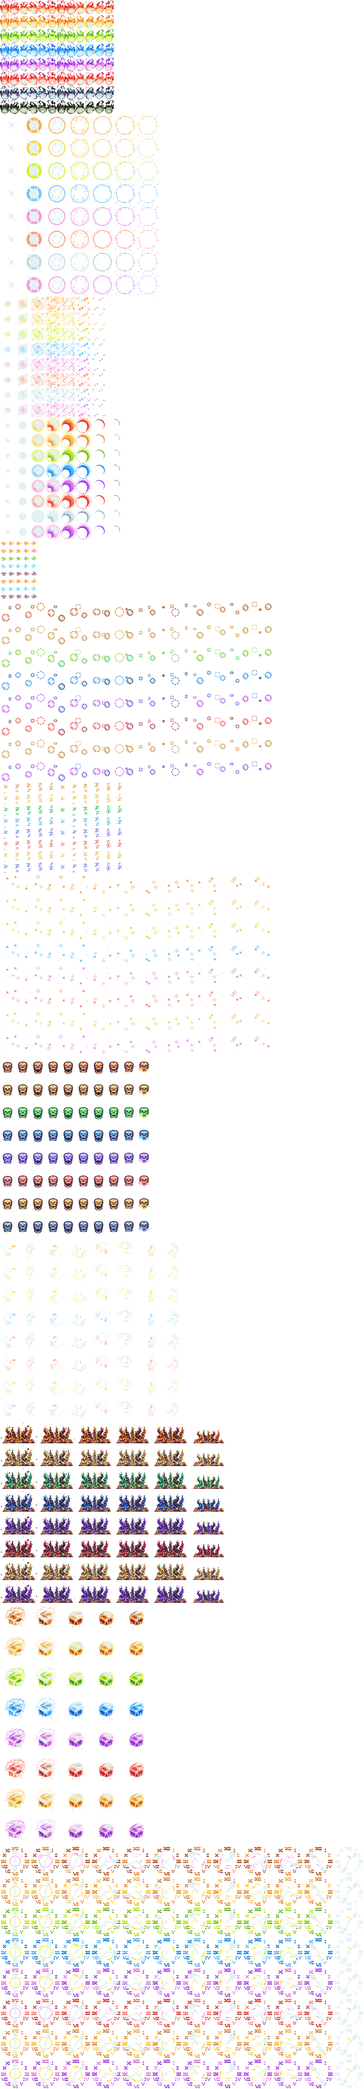
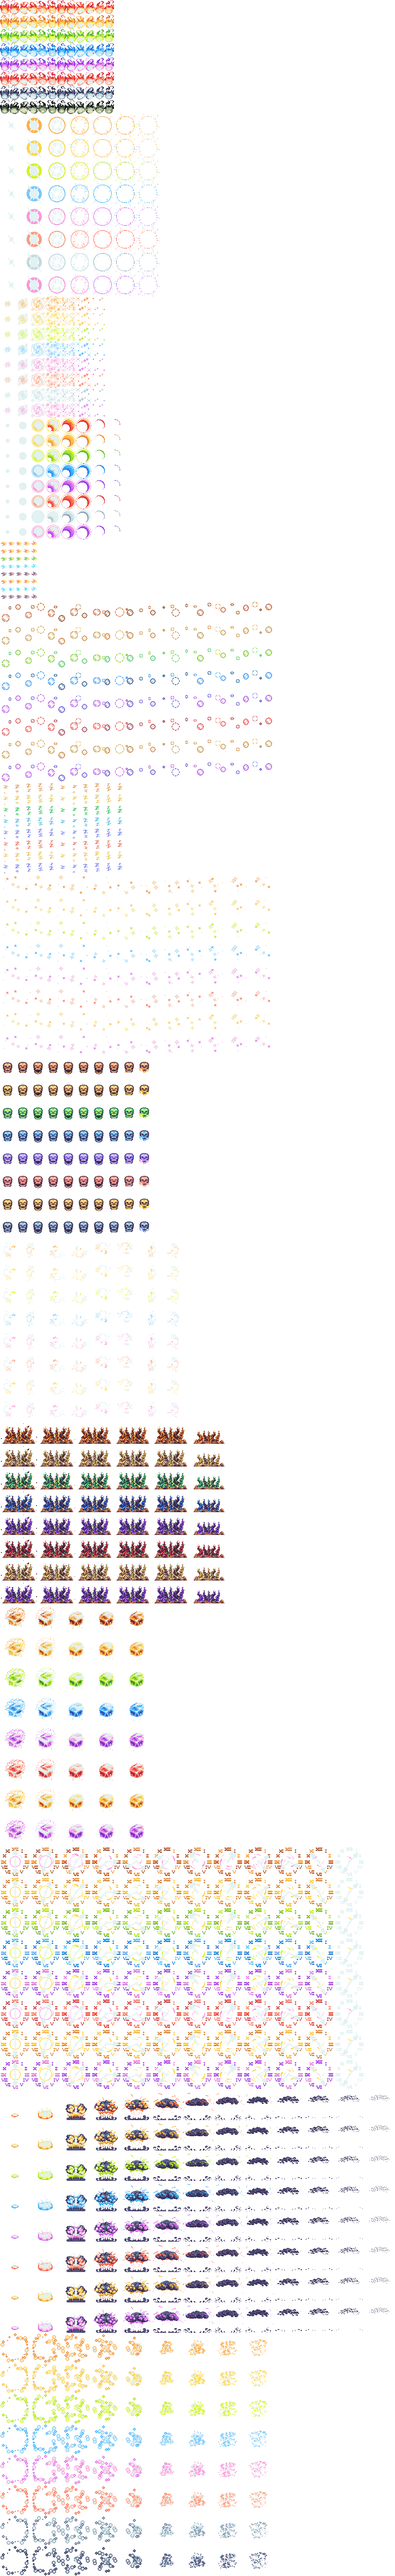
Efectos de área rehechos: zonas con su contenido propio, explosiones, abanicos y pozos con los efectos del paquete
Claude-Session: https://claude.ai/code/session_01Q4uyweMzSQgDDJSMLpwXVR

diff --git a/game.js b/game.js
@@ -3344,7 +3344,7 @@ function explode(x, y, r, dmg, o) {
   sfx('boom', 0.4, 0.85 + Math.random() * 0.3, 0.09);
   const blood = has('d_blood'), vap = has('v_vapors');
   if (blood) r *= 1.3;
-  S.fx.push({ k: 'ring', x, y, r, t: 0, life: 0.28, col: o.col || C.ink });
+  S.fx.push({ k: 'ring', x, y, r, t: 0, life: 0.42, col: o.col || C.ink, boom: true });   // boom: se pinta como explosión, no como un simple aro
   if (!o.soft) { S.shake = Math.max(S.shake, 4); sfx('boom', 0.45); }
   for (const e of S.enemies.slice()) {
     if (!active(e)) continue;
@@ -4802,7 +4802,7 @@ const DECOR = {"1":{"wall":[[229,0,14,22],[244,0,14,26],[259,0,16,21],[276,0,14,
 // Generado por tools/pack_fx.py: efectos de «Super Pixel Effects Gigapack» (Will Tice / unTied Games) y «Effect and Bullet 16x16».
 // Cada efecto ocupa ocho filas, una por color, en este orden.
 const FXCOL = ["orange", "yellow", "green", "blue", "violet", "red", "white", "black"];
-const FXA = {"flame": {"y": 0, "w": 20, "h": 30, "n": 12}, "hit": {"y": 240, "w": 48, "h": 48, "n": 7}, "cast": {"y": 624, "w": 32, "h": 32, "n": 7}, "boom": {"y": 880, "w": 32, "h": 32, "n": 8}, "bolt": {"y": 1136, "w": 16, "h": 16, "n": 5}, "poison": {"y": 1264, "w": 48, "h": 48, "n": 12}, "sleep": {"y": 1648, "w": 24, "h": 24, "n": 11}, "spark": {"y": 1840, "w": 48, "h": 48, "n": 12}, "skull": {"y": 2224, "w": 32, "h": 48, "n": 10}, "aura": {"y": 2608, "w": 48, "h": 48, "n": 8}, "thorns": {"y": 2992, "w": 80, "h": 48, "n": 6}, "ice": {"y": 3376, "w": 64, "h": 64, "n": 5}, "clock": {"y": 3888, "w": 64, "h": 64, "n": 12}};
+const FXA = {"flame": {"y": 0, "w": 20, "h": 30, "n": 12}, "hit": {"y": 240, "w": 48, "h": 48, "n": 7}, "cast": {"y": 624, "w": 32, "h": 32, "n": 7}, "boom": {"y": 880, "w": 32, "h": 32, "n": 8}, "bolt": {"y": 1136, "w": 16, "h": 16, "n": 5}, "poison": {"y": 1264, "w": 48, "h": 48, "n": 12}, "sleep": {"y": 1648, "w": 24, "h": 24, "n": 11}, "spark": {"y": 1840, "w": 48, "h": 48, "n": 12}, "skull": {"y": 2224, "w": 32, "h": 48, "n": 10}, "aura": {"y": 2608, "w": 48, "h": 48, "n": 8}, "thorns": {"y": 2992, "w": 80, "h": 48, "n": 6}, "ice": {"y": 3376, "w": 64, "h": 64, "n": 5}, "clock": {"y": 3888, "w": 64, "h": 64, "n": 12}, "blast": {"y": 4400, "w": 64, "h": 64, "n": 13}, "well": {"y": 4912, "w": 64, "h": 64, "n": 9}};
 // Generado por tools/pack_houses.py con piezas del Pixel Crawler Free Pack (Anokolisa). No editar a mano.
 // [x, y, ancho, alto] de cada casa en assets/houses.png; las 0, 1 y 4 son grandes (128 px), las demás pequeñas (96 px); de la 6 a la 11, las mismas en ruinas
 const HOUSES = [[0, 0, 128, 133], [130, 0, 128, 133], [260, 0, 96, 144], [358, 0, 96, 139], [456, 0, 128, 133], [586, 0, 96, 139], [684, 0, 128, 133], [814, 0, 128, 133], [944, 0, 96, 144], [1042, 0, 96, 139], [1140, 0, 128, 133], [1270, 0, 96, 139]];
@@ -5634,14 +5634,29 @@ function renderWorld() {
     ctx.globalAlpha = 1;
   }
 
-  // Zonas en el suelo
-  for (const z of S.zones) {
-    const a = Math.min(1, z.life);
-    if (z.r) { ctx.fillStyle = z.col; ctx.globalAlpha = 0.2 * a + 0.04 * Math.sin(S.t * 14); ctx.beginPath(); ctx.arc(z.x, z.y, z.r, 0, Math.PI * 2); ctx.fill(); ctx.globalAlpha = 1; continue; }
-    ctx.strokeStyle = z.col; ctx.lineCap = 'round';
-    ctx.globalAlpha = 0.22 * a; ctx.lineWidth = 20; ctx.beginPath(); ctx.moveTo(z.x1, z.y1); ctx.lineTo(z.x2, z.y2); ctx.stroke();
-    ctx.globalAlpha = 0.5 * a; ctx.lineWidth = 5 + Math.sin(S.t * 14) * 1.5; ctx.stroke();
-    ctx.globalAlpha = 1; ctx.lineCap = 'butt';
+  // Zonas en el suelo: un charco tenue del color de la deidad y, dentro, lo que la zona es de verdad
+  // (llamas, burbujas de veneno, zarzas, zetas de sueño, escarcha…), para distinguirlas de un vistazo
+  {
+    const kind = col => (col === GODS.dragon.color || col === GODS.forge.color ? ['flame', 10, 14] : col === GODS.venom.color ? ['poison', 20, 12] : col === GODS.wood.color ? ['thorns', 30, 9]
+      : col === GODS.dream.color ? ['sleep', 13, 9] : ['spark', 18, 12]);
+    const h01 = n => { const v = Math.sin(n * 12.9898) * 43758.5453; return v - Math.floor(v); };
+    for (const z of S.zones) {
+      const a = Math.min(1, z.life), [name, size, fps] = kind(z.col), F = FXA[name], lp = i => ((S.t * fps + i * 3.7 + z.x * 0.13) / F.n) % 1, pts = [];
+      if (z.r) {
+        ctx.fillStyle = z.col; ctx.globalAlpha = 0.14 * a + 0.03 * Math.sin(S.t * 9); ctx.beginPath(); ctx.arc(z.x, z.y, z.r, 0, Math.PI * 2); ctx.fill();
+        ctx.strokeStyle = z.col; ctx.globalAlpha = 0.55 * a; ctx.lineWidth = 1; ctx.setLineDash([2, 3]); ctx.lineDashOffset = -S.t * 6; ctx.stroke(); ctx.setLineDash([]); ctx.lineDashOffset = 0;
+        const n = name === 'thorns' ? Math.max(2, Math.round(z.r / 14)) : clamp(Math.round(z.r / 9), 2, 7);
+        for (let i = 0; i < n; i++) { const ang = i * 2.399 + z.x, rr = z.r * 0.7 * Math.sqrt((i + 0.5) / n); pts.push([z.x + Math.cos(ang) * rr, z.y + Math.sin(ang) * rr * 0.8]); }
+      } else {
+        const dx = z.x2 - z.x1, dy = z.y2 - z.y1, len = Math.hypot(dx, dy) || 1, nx = -dy / len, ny = dx / len;
+        ctx.strokeStyle = z.col; ctx.lineCap = 'round'; ctx.globalAlpha = 0.16 * a; ctx.lineWidth = 20; ctx.beginPath(); ctx.moveTo(z.x1, z.y1); ctx.lineTo(z.x2, z.y2); ctx.stroke(); ctx.lineCap = 'butt';
+        const n = Math.max(2, Math.round(len / (name === 'thorns' ? 22 : 13)));
+        for (let i = 0; i < n; i++) { const q = (i + 0.5) / n, off = (h01(i + z.x1) - 0.5) * 12; pts.push([z.x1 + dx * q + nx * off, z.y1 + dy * q + ny * off]); }
+      }
+      ctx.globalAlpha = a;
+      pts.forEach(([x, y], i) => drawFx(name, lp(i), x, y - (name === 'flame' ? size * 0.5 : name === 'thorns' ? 6 : 0), z.col, size + (name === 'flame' ? 4 * h01(i + 7) : 0)));
+      ctx.globalAlpha = 1;
+    }
   }
   // Cristales, Bocados y arma caída
   for (const c of S.crystals) {      // cristal clavado en el suelo: una gema de píxeles con su brillo
@@ -5677,10 +5692,9 @@ function renderWorld() {
 
   // Columnas y rifles gemelos
   for (const w of S.wells) {        // pozos: un remolino oscuro que gira hacia dentro
-    ctx.fillStyle = '#0b080d'; ctx.globalAlpha = 0.5; ctx.beginPath(); ctx.arc(w.x, w.y, w.r * 0.35, 0, Math.PI * 2); ctx.fill();
-    ctx.strokeStyle = GODS.void.color; ctx.lineWidth = 1; ctx.globalAlpha = 0.7;
-    for (let i = 0; i < 3; i++) { const rr = w.r * (1 - ((S.t * 0.9 + i / 3) % 1)); ctx.beginPath(); ctx.arc(w.x, w.y, Math.max(2, rr), S.t * 3 + i * 2, S.t * 3 + i * 2 + 4.4); ctx.stroke(); }
-    ctx.globalAlpha = 1;
+    ctx.fillStyle = '#0b080d'; ctx.globalAlpha = 0.55; ctx.beginPath(); ctx.arc(w.x, w.y, w.r * 0.4, 0, Math.PI * 2); ctx.fill();
+    ctx.strokeStyle = GODS.void.color; ctx.lineWidth = 1; ctx.globalAlpha = 0.45; ctx.setLineDash([2, 4]); ctx.beginPath(); ctx.arc(w.x, w.y, w.r, 0, Math.PI * 2); ctx.stroke(); ctx.setLineDash([]);   // hasta dónde tira
+    ctx.globalAlpha = 1; drawFx('well', ((S.t * 12 + w.x) / FXA.well.n) % 1, w.x, w.y, GODS.void.color, Math.max(26, w.r * 1.5));   // partículas cayendo hacia dentro
   }
   for (const mn of S.mines) {       // minas: un bulto de hierro con una luz que parpadea
     const x = Math.round(mn.x), y = Math.round(mn.y);
@@ -5856,7 +5870,13 @@ function renderWorld() {
     }
     if (f.k === 'ghost') { ctx.globalAlpha = 0.75 * k; if (!drawChar('decoy', 'idle', S.t, f.x, f.y + p.r + 2, false, false)) { ctx.fillStyle = C.ember; ctx.globalAlpha = 0.35 * k; ctx.beginPath(); ctx.arc(f.x, f.y, p.r, 0, Math.PI * 2); ctx.fill(); } }
     else if (f.k === 'clock') { ctx.strokeStyle = GODS.time.color; ctx.globalAlpha = 0.7; ctx.lineWidth = 1.5; ctx.beginPath(); ctx.arc(f.x, f.y, 9, -Math.PI / 2, -Math.PI / 2 + Math.PI * 2 * k); ctx.stroke(); }
-    else if (f.k === 'cone') { ctx.fillStyle = f.col; ctx.globalAlpha = 0.45 * k; ctx.beginPath(); ctx.moveTo(f.x, f.y); ctx.arc(f.x, f.y, f.r * (1 - 0.3 * k), f.a - f.half, f.a + f.half); ctx.closePath(); ctx.fill(); }
+    else if (f.k === 'cone') {   // abanico: un velo tenue y, dentro, llamas (o destellos) que avanzan desde Alec hacia fuera
+      const R = f.r * (1 - 0.3 * k), fire = f.col === GODS.dragon.color || f.col === GODS.forge.color;
+      ctx.fillStyle = f.col; ctx.globalAlpha = 0.22 * k; ctx.beginPath(); ctx.moveTo(f.x, f.y); ctx.arc(f.x, f.y, R, f.a - f.half, f.a + f.half); ctx.closePath(); ctx.fill();
+      ctx.globalAlpha = Math.min(1, k * 1.6);
+      for (let i = 0; i < 7; i++) { const q = 0.3 + 0.7 * ((i * 0.37 + (1 - k) * 0.6) % 1), an = f.a + f.half * 0.85 * (((i * 0.618) % 1) * 2 - 1), x = f.x + Math.cos(an) * R * q, y = f.y + Math.sin(an) * R * q;
+        if (fire) drawFx('flame', ((S.t * 16 + i * 3) / FXA.flame.n) % 1, x, y - 4, f.col, 8 + 8 * q); else drawFx('cast', (1 - k + i * 0.13) % 1, x, y, f.col, 12 + 8 * q); }
+    }
     ctx.globalAlpha = 1;
   }
 
@@ -5923,6 +5943,10 @@ function renderWorld() {
         ctx.fillStyle = col; ctx.fillRect(hx - r - 1, hy - r, r * 2 + 2, r * 2); ctx.fillRect(hx - r, hy - r - 1, r * 2, r * 2 + 2);
         ctx.fillStyle = '#ffffff'; ctx.fillRect(hx - r, hy - r, r * 2, r * 2);
       } else drawFx('hit', (u - T) / (1 - T), f.x2, f.y2, col, 12 + 6 * w);
+    }
+    else if (f.k === 'ring' && f.boom) {   // explosión: el estallido del paquete a su tamaño real y un aro fino que marca hasta dónde llega
+      drawFx(f.r >= 26 ? 'blast' : 'boom', 1 - k, f.x, f.y, f.col, f.r * 2.4);
+      ctx.strokeStyle = f.col; ctx.globalAlpha = 0.6 * k; ctx.lineWidth = 1; ctx.beginPath(); ctx.arc(f.x, f.y, f.r * (1 - 0.35 * k), 0, Math.PI * 2); ctx.stroke();
     }
     else if (f.k === 'ring') { ctx.strokeStyle = f.col; ctx.globalAlpha = k; ctx.lineWidth = 3 * k + 0.5; ctx.beginPath(); ctx.arc(f.x, f.y, f.r * (1 - 0.6 * k), 0, Math.PI * 2); ctx.stroke(); ctx.fillStyle = f.col; ctx.globalAlpha = 0.18 * k; ctx.fill(); }
     else if (f.k === 'beam') { ctx.strokeStyle = f.col || C.energy; ctx.globalAlpha = k * 0.5; ctx.lineWidth = f.w * 3 * k; ctx.beginPath(); ctx.moveTo(f.x1, f.y1); ctx.lineTo(f.x2, f.y2); ctx.stroke(); ctx.strokeStyle = '#ffffff'; ctx.globalAlpha = k; ctx.lineWidth = f.w * k; ctx.stroke(); }

diff --git a/src/51_render.js b/src/51_render.js
@@ -146,14 +146,29 @@ function renderWorld() {
     ctx.globalAlpha = 1;
   }
 
-  // Zonas en el suelo
-  for (const z of S.zones) {
-    const a = Math.min(1, z.life);
-    if (z.r) { ctx.fillStyle = z.col; ctx.globalAlpha = 0.2 * a + 0.04 * Math.sin(S.t * 14); ctx.beginPath(); ctx.arc(z.x, z.y, z.r, 0, Math.PI * 2); ctx.fill(); ctx.globalAlpha = 1; continue; }
-    ctx.strokeStyle = z.col; ctx.lineCap = 'round';
-    ctx.globalAlpha = 0.22 * a; ctx.lineWidth = 20; ctx.beginPath(); ctx.moveTo(z.x1, z.y1); ctx.lineTo(z.x2, z.y2); ctx.stroke();
-    ctx.globalAlpha = 0.5 * a; ctx.lineWidth = 5 + Math.sin(S.t * 14) * 1.5; ctx.stroke();
-    ctx.globalAlpha = 1; ctx.lineCap = 'butt';
+  // Zonas en el suelo: un charco tenue del color de la deidad y, dentro, lo que la zona es de verdad
+  // (llamas, burbujas de veneno, zarzas, zetas de sueño, escarcha…), para distinguirlas de un vistazo
+  {
+    const kind = col => (col === GODS.dragon.color || col === GODS.forge.color ? ['flame', 10, 14] : col === GODS.venom.color ? ['poison', 20, 12] : col === GODS.wood.color ? ['thorns', 30, 9]
+      : col === GODS.dream.color ? ['sleep', 13, 9] : ['spark', 18, 12]);
+    const h01 = n => { const v = Math.sin(n * 12.9898) * 43758.5453; return v - Math.floor(v); };
+    for (const z of S.zones) {
+      const a = Math.min(1, z.life), [name, size, fps] = kind(z.col), F = FXA[name], lp = i => ((S.t * fps + i * 3.7 + z.x * 0.13) / F.n) % 1, pts = [];
+      if (z.r) {
+        ctx.fillStyle = z.col; ctx.globalAlpha = 0.14 * a + 0.03 * Math.sin(S.t * 9); ctx.beginPath(); ctx.arc(z.x, z.y, z.r, 0, Math.PI * 2); ctx.fill();
+        ctx.strokeStyle = z.col; ctx.globalAlpha = 0.55 * a; ctx.lineWidth = 1; ctx.setLineDash([2, 3]); ctx.lineDashOffset = -S.t * 6; ctx.stroke(); ctx.setLineDash([]); ctx.lineDashOffset = 0;
+        const n = name === 'thorns' ? Math.max(2, Math.round(z.r / 14)) : clamp(Math.round(z.r / 9), 2, 7);
+        for (let i = 0; i < n; i++) { const ang = i * 2.399 + z.x, rr = z.r * 0.7 * Math.sqrt((i + 0.5) / n); pts.push([z.x + Math.cos(ang) * rr, z.y + Math.sin(ang) * rr * 0.8]); }
+      } else {
+        const dx = z.x2 - z.x1, dy = z.y2 - z.y1, len = Math.hypot(dx, dy) || 1, nx = -dy / len, ny = dx / len;
+        ctx.strokeStyle = z.col; ctx.lineCap = 'round'; ctx.globalAlpha = 0.16 * a; ctx.lineWidth = 20; ctx.beginPath(); ctx.moveTo(z.x1, z.y1); ctx.lineTo(z.x2, z.y2); ctx.stroke(); ctx.lineCap = 'butt';
+        const n = Math.max(2, Math.round(len / (name === 'thorns' ? 22 : 13)));
+        for (let i = 0; i < n; i++) { const q = (i + 0.5) / n, off = (h01(i + z.x1) - 0.5) * 12; pts.push([z.x1 + dx * q + nx * off, z.y1 + dy * q + ny * off]); }
+      }
+      ctx.globalAlpha = a;
+      pts.forEach(([x, y], i) => drawFx(name, lp(i), x, y - (name === 'flame' ? size * 0.5 : name === 'thorns' ? 6 : 0), z.col, size + (name === 'flame' ? 4 * h01(i + 7) : 0)));
+      ctx.globalAlpha = 1;
+    }
   }
   // Cristales, Bocados y arma caída
   for (const c of S.crystals) {      // cristal clavado en el suelo: una gema de píxeles con su brillo
@@ -189,10 +204,9 @@ function renderWorld() {
 
   // Columnas y rifles gemelos
   for (const w of S.wells) {        // pozos: un remolino oscuro que gira hacia dentro
-    ctx.fillStyle = '#0b080d'; ctx.globalAlpha = 0.5; ctx.beginPath(); ctx.arc(w.x, w.y, w.r * 0.35, 0, Math.PI * 2); ctx.fill();
-    ctx.strokeStyle = GODS.void.color; ctx.lineWidth = 1; ctx.globalAlpha = 0.7;
-    for (let i = 0; i < 3; i++) { const rr = w.r * (1 - ((S.t * 0.9 + i / 3) % 1)); ctx.beginPath(); ctx.arc(w.x, w.y, Math.max(2, rr), S.t * 3 + i * 2, S.t * 3 + i * 2 + 4.4); ctx.stroke(); }
-    ctx.globalAlpha = 1;
+    ctx.fillStyle = '#0b080d'; ctx.globalAlpha = 0.55; ctx.beginPath(); ctx.arc(w.x, w.y, w.r * 0.4, 0, Math.PI * 2); ctx.fill();
+    ctx.strokeStyle = GODS.void.color; ctx.lineWidth = 1; ctx.globalAlpha = 0.45; ctx.setLineDash([2, 4]); ctx.beginPath(); ctx.arc(w.x, w.y, w.r, 0, Math.PI * 2); ctx.stroke(); ctx.setLineDash([]);   // hasta dónde tira
+    ctx.globalAlpha = 1; drawFx('well', ((S.t * 12 + w.x) / FXA.well.n) % 1, w.x, w.y, GODS.void.color, Math.max(26, w.r * 1.5));   // partículas cayendo hacia dentro
   }
   for (const mn of S.mines) {       // minas: un bulto de hierro con una luz que parpadea
     const x = Math.round(mn.x), y = Math.round(mn.y);
@@ -368,7 +382,13 @@ function renderWorld() {
     }
     if (f.k === 'ghost') { ctx.globalAlpha = 0.75 * k; if (!drawChar('decoy', 'idle', S.t, f.x, f.y + p.r + 2, false, false)) { ctx.fillStyle = C.ember; ctx.globalAlpha = 0.35 * k; ctx.beginPath(); ctx.arc(f.x, f.y, p.r, 0, Math.PI * 2); ctx.fill(); } }
     else if (f.k === 'clock') { ctx.strokeStyle = GODS.time.color; ctx.globalAlpha = 0.7; ctx.lineWidth = 1.5; ctx.beginPath(); ctx.arc(f.x, f.y, 9, -Math.PI / 2, -Math.PI / 2 + Math.PI * 2 * k); ctx.stroke(); }
-    else if (f.k === 'cone') { ctx.fillStyle = f.col; ctx.globalAlpha = 0.45 * k; ctx.beginPath(); ctx.moveTo(f.x, f.y); ctx.arc(f.x, f.y, f.r * (1 - 0.3 * k), f.a - f.half, f.a + f.half); ctx.closePath(); ctx.fill(); }
+    else if (f.k === 'cone') {   // abanico: un velo tenue y, dentro, llamas (o destellos) que avanzan desde Alec hacia fuera
+      const R = f.r * (1 - 0.3 * k), fire = f.col === GODS.dragon.color || f.col === GODS.forge.color;
+      ctx.fillStyle = f.col; ctx.globalAlpha = 0.22 * k; ctx.beginPath(); ctx.moveTo(f.x, f.y); ctx.arc(f.x, f.y, R, f.a - f.half, f.a + f.half); ctx.closePath(); ctx.fill();
+      ctx.globalAlpha = Math.min(1, k * 1.6);
+      for (let i = 0; i < 7; i++) { const q = 0.3 + 0.7 * ((i * 0.37 + (1 - k) * 0.6) % 1), an = f.a + f.half * 0.85 * (((i * 0.618) % 1) * 2 - 1), x = f.x + Math.cos(an) * R * q, y = f.y + Math.sin(an) * R * q;
+        if (fire) drawFx('flame', ((S.t * 16 + i * 3) / FXA.flame.n) % 1, x, y - 4, f.col, 8 + 8 * q); else drawFx('cast', (1 - k + i * 0.13) % 1, x, y, f.col, 12 + 8 * q); }
+    }
     ctx.globalAlpha = 1;
   }
 
@@ -435,6 +455,10 @@ function renderWorld() {
         ctx.fillStyle = col; ctx.fillRect(hx - r - 1, hy - r, r * 2 + 2, r * 2); ctx.fillRect(hx - r, hy - r - 1, r * 2, r * 2 + 2);
         ctx.fillStyle = '#ffffff'; ctx.fillRect(hx - r, hy - r, r * 2, r * 2);
       } else drawFx('hit', (u - T) / (1 - T), f.x2, f.y2, col, 12 + 6 * w);
+    }
+    else if (f.k === 'ring' && f.boom) {   // explosión: el estallido del paquete a su tamaño real y un aro fino que marca hasta dónde llega
+      drawFx(f.r >= 26 ? 'blast' : 'boom', 1 - k, f.x, f.y, f.col, f.r * 2.4);
+      ctx.strokeStyle = f.col; ctx.globalAlpha = 0.6 * k; ctx.lineWidth = 1; ctx.beginPath(); ctx.arc(f.x, f.y, f.r * (1 - 0.35 * k), 0, Math.PI * 2); ctx.stroke();
     }
     else if (f.k === 'ring') { ctx.strokeStyle = f.col; ctx.globalAlpha = k; ctx.lineWidth = 3 * k + 0.5; ctx.beginPath(); ctx.arc(f.x, f.y, f.r * (1 - 0.6 * k), 0, Math.PI * 2); ctx.stroke(); ctx.fillStyle = f.col; ctx.globalAlpha = 0.18 * k; ctx.fill(); }
     else if (f.k === 'beam') { ctx.strokeStyle = f.col || C.energy; ctx.globalAlpha = k * 0.5; ctx.lineWidth = f.w * 3 * k; ctx.beginPath(); ctx.moveTo(f.x1, f.y1); ctx.lineTo(f.x2, f.y2); ctx.stroke(); ctx.strokeStyle = '#ffffff'; ctx.globalAlpha = k; ctx.lineWidth = f.w * k; ctx.stroke(); }

diff --git a/src/49_fx.js b/src/49_fx.js
@@ -1,4 +1,4 @@
 // Generado por tools/pack_fx.py: efectos de «Super Pixel Effects Gigapack» (Will Tice / unTied Games) y «Effect and Bullet 16x16».
 // Cada efecto ocupa ocho filas, una por color, en este orden.
 const FXCOL = ["orange", "yellow", "green", "blue", "violet", "red", "white", "black"];
-const FXA = {"flame": {"y": 0, "w": 20, "h": 30, "n": 12}, "hit": {"y": 240, "w": 48, "h": 48, "n": 7}, "cast": {"y": 624, "w": 32, "h": 32, "n": 7}, "boom": {"y": 880, "w": 32, "h": 32, "n": 8}, "bolt": {"y": 1136, "w": 16, "h": 16, "n": 5}, "poison": {"y": 1264, "w": 48, "h": 48, "n": 12}, "sleep": {"y": 1648, "w": 24, "h": 24, "n": 11}, "spark": {"y": 1840, "w": 48, "h": 48, "n": 12}, "skull": {"y": 2224, "w": 32, "h": 48, "n": 10}, "aura": {"y": 2608, "w": 48, "h": 48, "n": 8}, "thorns": {"y": 2992, "w": 80, "h": 48, "n": 6}, "ice": {"y": 3376, "w": 64, "h": 64, "n": 5}, "clock": {"y": 3888, "w": 64, "h": 64, "n": 12}};
+const FXA = {"flame": {"y": 0, "w": 20, "h": 30, "n": 12}, "hit": {"y": 240, "w": 48, "h": 48, "n": 7}, "cast": {"y": 624, "w": 32, "h": 32, "n": 7}, "boom": {"y": 880, "w": 32, "h": 32, "n": 8}, "bolt": {"y": 1136, "w": 16, "h": 16, "n": 5}, "poison": {"y": 1264, "w": 48, "h": 48, "n": 12}, "sleep": {"y": 1648, "w": 24, "h": 24, "n": 11}, "spark": {"y": 1840, "w": 48, "h": 48, "n": 12}, "skull": {"y": 2224, "w": 32, "h": 48, "n": 10}, "aura": {"y": 2608, "w": 48, "h": 48, "n": 8}, "thorns": {"y": 2992, "w": 80, "h": 48, "n": 6}, "ice": {"y": 3376, "w": 64, "h": 64, "n": 5}, "clock": {"y": 3888, "w": 64, "h": 64, "n": 12}, "blast": {"y": 4400, "w": 64, "h": 64, "n": 13}, "well": {"y": 4912, "w": 64, "h": 64, "n": 9}};

diff --git a/src/40_combat.js b/src/40_combat.js
@@ -199,7 +199,7 @@ function explode(x, y, r, dmg, o) {
   sfx('boom', 0.4, 0.85 + Math.random() * 0.3, 0.09);
   const blood = has('d_blood'), vap = has('v_vapors');
   if (blood) r *= 1.3;
-  S.fx.push({ k: 'ring', x, y, r, t: 0, life: 0.28, col: o.col || C.ink });
+  S.fx.push({ k: 'ring', x, y, r, t: 0, life: 0.42, col: o.col || C.ink, boom: true });   // boom: se pinta como explosión, no como un simple aro
   if (!o.soft) { S.shake = Math.max(S.shake, 4); sfx('boom', 0.45); }
   for (const e of S.enemies.slice()) {
     if (!active(e)) continue;

diff --git a/tools/pack_fx.py b/tools/pack_fx.py
@@ -35,6 +35,9 @@ SETS = {
     'thorns': lambda c: giga('Fantasy Spells', 'spell_thorns_001', c, None, 2, 8, 20),       # Raíces: zarzas a los pies
     'ice': lambda c: giga('Fantasy Spells', 'spell_ice_001', c, None, 2, 18, 28),            # Helado: el bloque de hielo
     'clock': lambda c: giga('Fantasy Spells', 'spell_haste_001', c, None, 2, 4, 28),         # Ralentizado: el reloj
+    # Efectos de área de las técnicas
+    'blast': lambda c: giga('Explosions', 'epic_explosion_001', c),                          # explosiones grandes
+    'well': lambda c: giga('Fantasy Spells', 'spell_absorb_001', c, None, 2, 6, 24),         # pozos del Vacío: partículas que caen hacia dentro
 }
 meta, blocks, y = {}, [], 0
 for name, fn in SETS.items():
